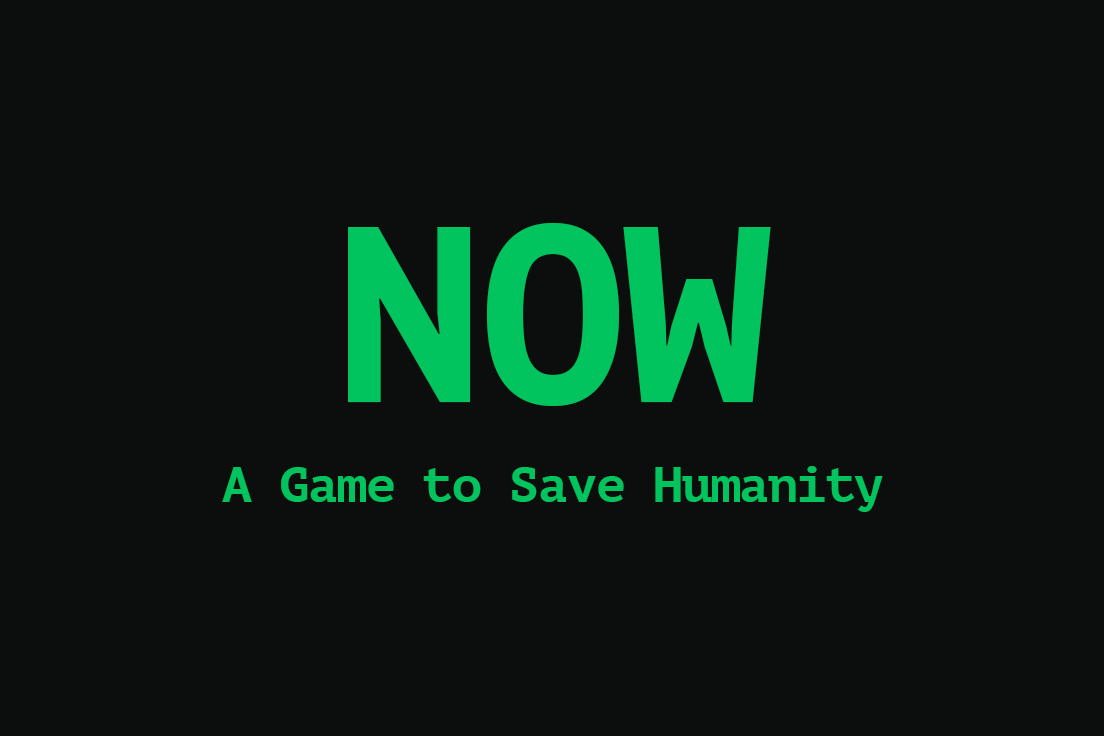
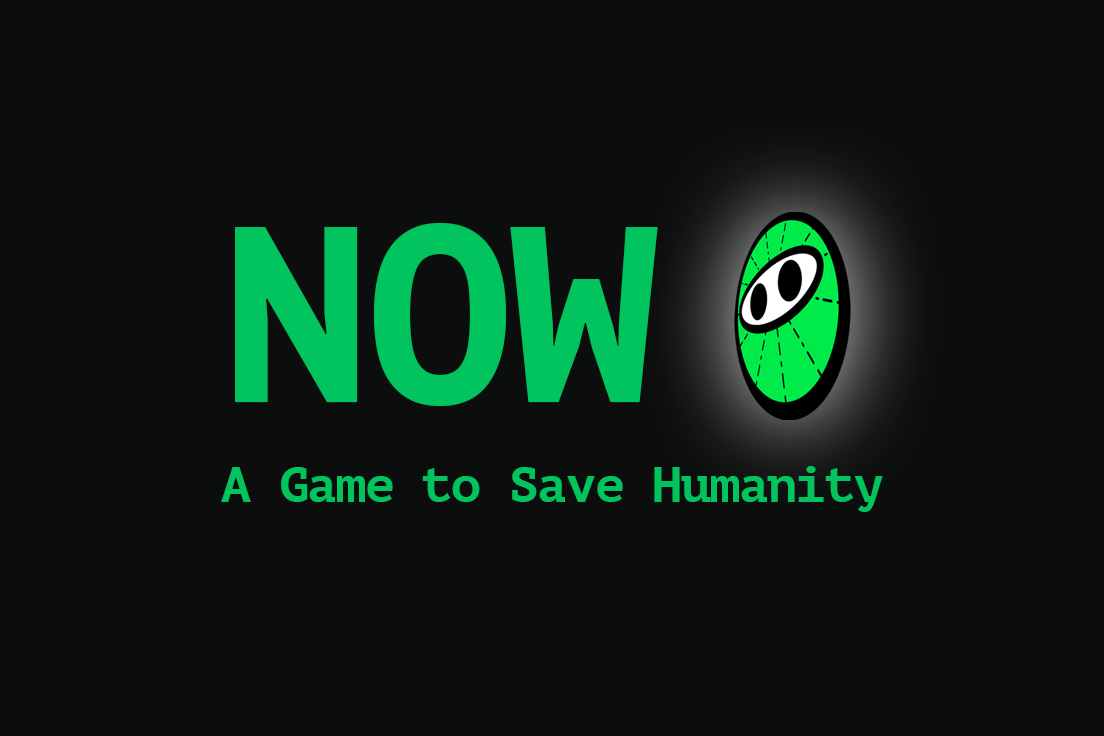
black png

diff --git a/public/index.html b/public/index.html
@@ -5,7 +5,7 @@
     <meta charset="utf-8" />
     <meta name="viewport" content="width=device-width, initial-scale=1" />
     <meta property="og:title" content="Now DAO" />
-    <meta property="og:image" content="%PUBLIC_URL%/imagePreview4.png" />
+    <meta property="og:image" content="%PUBLIC_URL%/imagePreviewBlack.png" />
     <link rel="icon" href="%PUBLIC_URL%/favicon.ico" />
     <!-- <meta property="og:url" content="https://now-dao.io/#/thoughts" /> -->
     <meta name="description" content="A Game to Save Humanity" />
